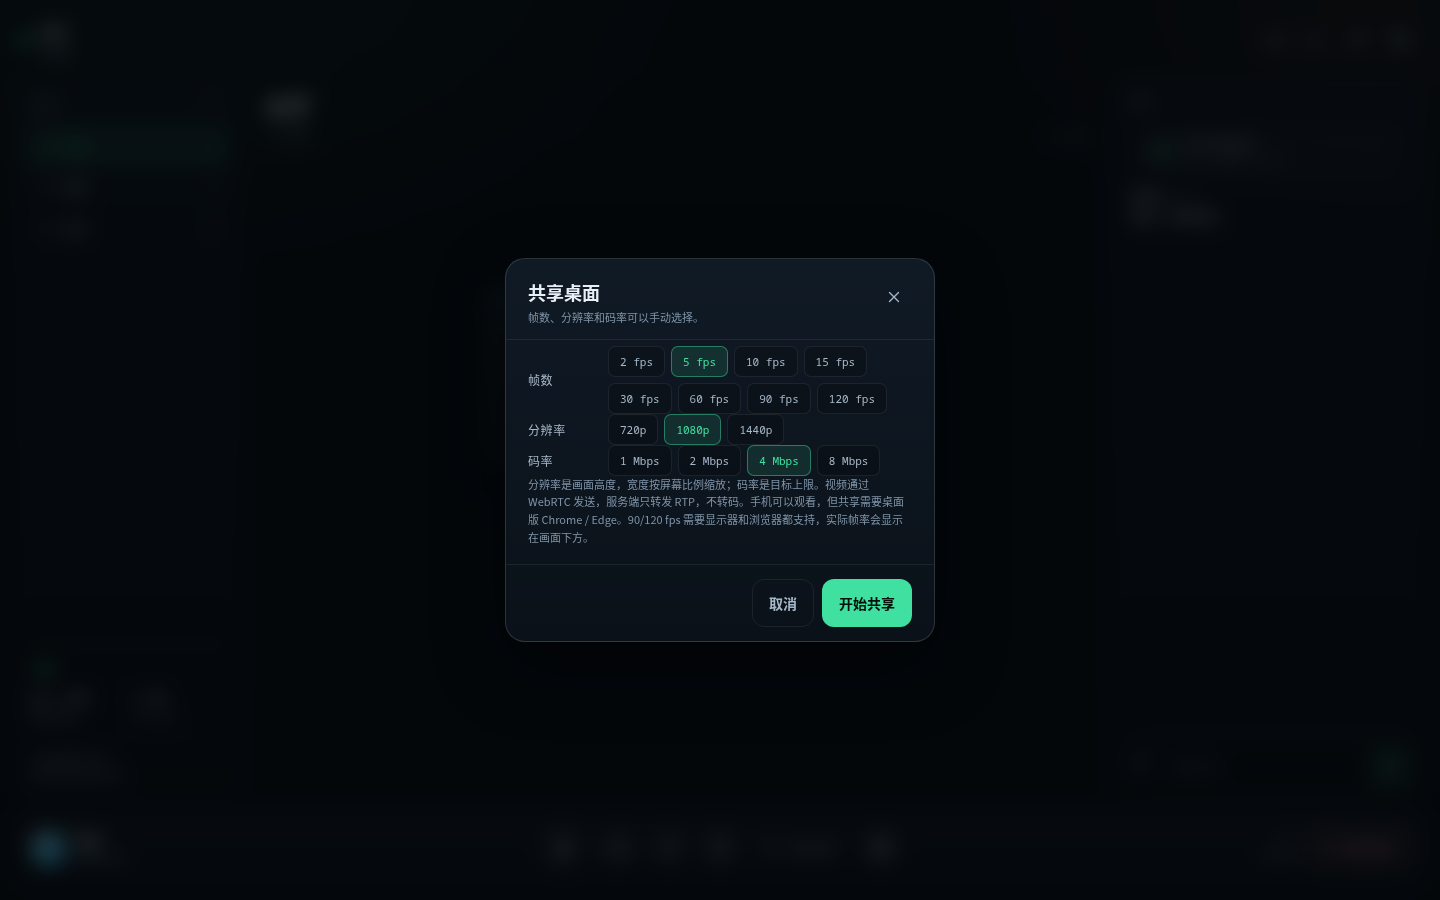
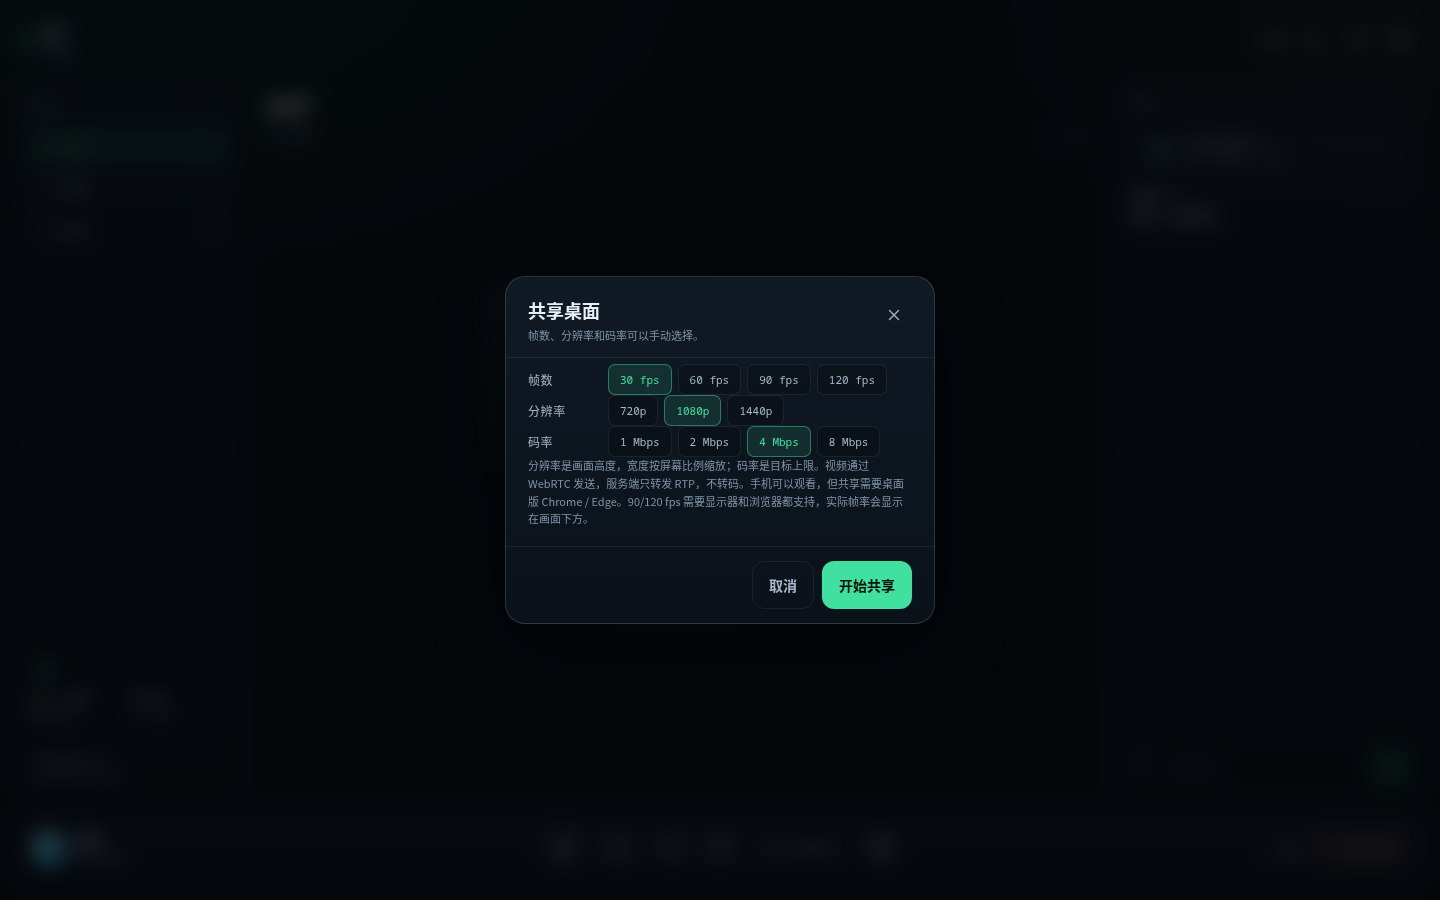
change: keep only 30-120 fps screen options

Changed region(s): [[0.3438, 0.28, 0.6562, 0.6222], [0.5312, 0.6222, 0.6562, 0.7156]]

diff --git a/web/app.js b/web/app.js
@@ -39,7 +39,7 @@ const app = {
     ec: store.get('ec', true),
     ns: store.get('ns', true),
     agc: store.get('agc', true),
-    screenFps: store.get('screenFps', 5),
+    screenFps: store.get('screenFps', 30),
     screenHeight: store.get('screenHeight', 1080),
     screenBitrate: store.get('screenBitrate', 4000),
   },
@@ -2214,7 +2214,7 @@ function uploadOne(file) {
   });
 }
 
-const SCREEN_FPS = [2, 5, 10, 15, 30, 60, 90, 120];
+const SCREEN_FPS = [30, 60, 90, 120];
 const SCREEN_HEIGHTS = [720, 1080, 1440];
 const SCREEN_BITRATES = [1000, 2000, 4000, 8000];
 
@@ -2237,6 +2237,11 @@ function updateScreenButton() {
 }
 
 function renderScreenOptions() {
+  // Drop old 2/5/10/15 selections from localStorage.
+  if (!SCREEN_FPS.includes(Number(app.settings.screenFps))) {
+    app.settings.screenFps = 30;
+    store.set('screenFps', 30);
+  }
   const groups = [
     ['#sf-fps', SCREEN_FPS, Number(app.settings.screenFps), (v) => `${v} fps`, 'screenFps'],
     ['#sf-height', SCREEN_HEIGHTS, Number(app.settings.screenHeight), (v) => `${v}p`, 'screenHeight'],
@@ -2286,7 +2291,7 @@ async function startScreenShare() {
     toast('当前浏览器不支持桌面共享', 'error');
     return;
   }
-  const fps = clampNumber(Number(app.settings.screenFps), 1, 120, 5);
+  const fps = clampNumber(Number(app.settings.screenFps), 30, 120, 30);
   const height = clampNumber(Number(app.settings.screenHeight), 360, 2160, 1080);
   const bitrate = clampNumber(Number(app.settings.screenBitrate), 256, 20000, 4000);
   closeScreenOptions();

diff --git a/README.md b/README.md
@@ -43,7 +43,7 @@
 | **房间/聊天** | 多房间、在线人数、文字聊天、静音、闭音、按键说话、单人音量 |
 | **FLAC 无损** | 可选无损旁路，单房间同时一位发送者，适合共享音乐（约 0.8 s 延迟） |
 | **文件传输** | 房间内上传文件，默认单文件 100 MB、24 小时自动清理；成员可下载，重启清空 |
-| **桌面共享** | WebRTC 视频轨（VP8/H264），可选 2–120 fps、720/1080/1440p、1/2/4/8 Mbps；服务端只转发不转码 |
+| **桌面共享** | WebRTC 视频轨（VP8/H264），可选 30/60/90/120 fps、720/1080/1440p、1/2/4/8 Mbps；服务端只转发不转码 |
 | **运维简单** | 无数据库、无 Redis、无 Node 运行时；systemd 一个服务，配置全在环境变量里 |
 | **HTTPS** | 内置 Let's Encrypt（ACME），也可用现成证书或反向代理 |
 | **诊断可见** | 服务端 RSS / CPU / 转发量实时显示在界面上；设置里有 RTT、抖动、丢包、码率 |
@@ -103,7 +103,7 @@
 
 控制栏的显示器按钮可以共享窗口或整个桌面：
 
-- 帧数：**2 / 5 / 10 / 15 / 30 / 60 / 90 / 120 fps**；分辨率：**720p / 1080p / 1440p**；目标码率：**1 / 2 / 4 / 8 Mbps**；
+- 帧数：**30 / 60 / 90 / 120 fps**；分辨率：**720p / 1080p / 1440p**；目标码率：**1 / 2 / 4 / 8 Mbps**；
 - 浏览器通过 `getDisplayMedia()` 抓屏，作为 WebRTC 视频轨发送；Pion 只转发 VP8/H264 RTP，不转码；
 - **30/60/90/120 fps 是目标值**，实际帧率取决于抓屏、浏览器编码器、显示器和网络，画面下方会显示实际 fps；
 - 同一房间同时只能有一位共享者；观看端电脑/手机都可以，共享端需要桌面版 Chrome / Edge；
@@ -302,7 +302,7 @@ Windows 会把同一个麦克风同时暴露成“默认 / 通讯 / 原始”三
 
 ## 已知限制
 
-- **桌面共享是 WebRTC 视频轨**：2–120 fps 是目标值，实际帧率受抓屏、编码器、显示器和网络限制，画面下方显示实际值。
+- **桌面共享是 WebRTC 视频轨**：30/60/90/120 fps 是目标值，实际帧率受抓屏、编码器、显示器和网络限制，画面下方显示实际值。
 - **文件不持久**：文件只存在服务端临时目录，默认 24 小时或服务重启后清空；没有权限组、频道树。
 - **按键说话只在前台生效**：浏览器无法捕获全局热键。游戏时可以把页面放副屏，或用“麦克风常开”。
 - **iOS 锁屏/切后台会中断**：WebRTC 在移动端的系统限制。
@@ -320,7 +320,7 @@ Windows 会把同一个麦克风同时暴露成“默认 / 通讯 / 原始”三
 | 客户端 | 官方客户端 | 浏览器，免安装 |
 | 音质上限 | Opus Music ≈ 95 kbps | 实测 320 kbps，上限 510 kbps |
 | 许可 | 32 槽位 Beta | 无 |
-| 视频/屏幕共享 | Beta 中未实现 | WebRTC 桌面共享（2–120 fps 目标） |
+| 视频/屏幕共享 | Beta 中未实现 | WebRTC 桌面共享（30/60/90/120 fps 目标） |
 | 文件传输 | 支持 | 支持（房间临时存储，默认 100 MB / 24h） |
 | FLAC 无损旁路 | 不支持 | 支持（单发送者） |
 | 权限/频道管理 | 完整 | 无 |
